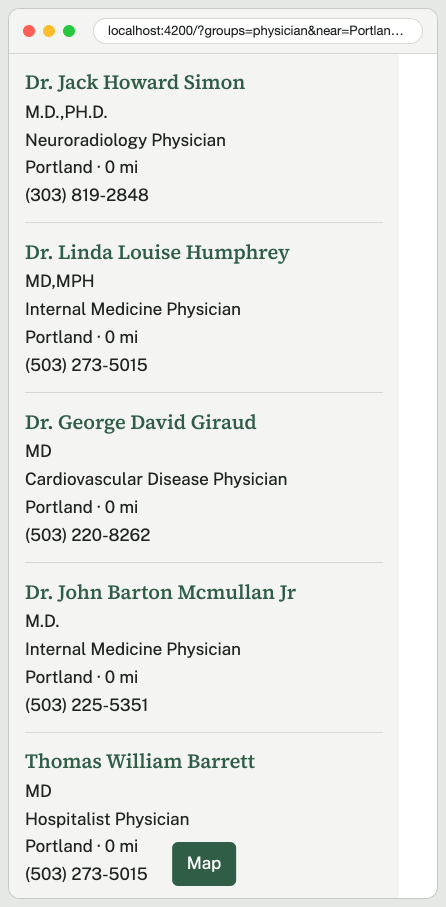
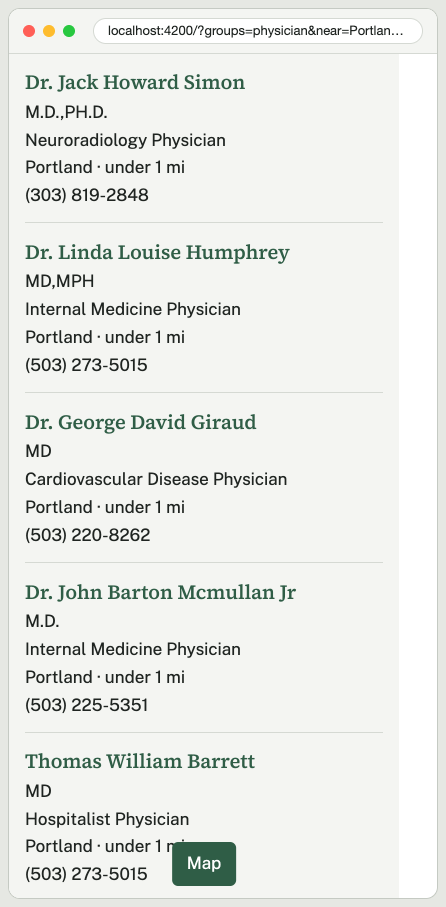
Show a shared ZIP center as under a mile.
A distance of 0 is the haversine of two identical ZIP centers, and "0 mi" read as the same building.

diff --git a/web/src/app/search-page.ts b/web/src/app/search-page.ts
@@ -6,7 +6,7 @@ import { ActivatedRoute } from '@angular/router';
 import { catchError, forkJoin, of, switchMap } from 'rxjs';
 import { GROUPS, PRESETS, groupLabel } from './catalog';
 import { Facets, FinderApi, LocationHit, ProviderSummary, UnderstoodItem } from './finder-api';
-import { placeCase, phoneText } from './format';
+import { distanceText, placeCase, phoneText } from './format';
 import { ResultMap } from './map-view';
 import { SearchQuery, isActive, readQuery, toParams } from './query';
 
@@ -44,6 +44,7 @@ export class SearchPage {
   readonly active = computed(() => isActive(this.filters()));
   readonly placeCase = placeCase;
   readonly phoneText = phoneText;
+  readonly distanceText = distanceText;
   readonly groupLabel = groupLabel;
 
   constructor() {

diff --git a/web/src/app/search-page.html b/web/src/app/search-page.html
@@ -140,7 +140,7 @@
                 <span>{{ item.credentialText }}</span>
               }
               <span>{{ item.primarySpecialty }}</span>
-              <span>{{ placeCase(item.city) }}@if (item.distanceMiles !== null) { · {{ item.distanceMiles }} mi }</span>
+              <span>{{ placeCase(item.city) }}@if (item.distanceMiles !== null) { · {{ distanceText(item.distanceMiles) }} }</span>
               @if (item.phone) {
                 <span>{{ phoneText(item.phone) }}</span>
               }

diff --git a/web/src/app/format.ts b/web/src/app/format.ts
@@ -30,6 +30,16 @@ export function phoneText(digits: string | null): string {
   return `(${digits.slice(0, 3)}) ${digits.slice(3, 6)}-${digits.slice(6)}`;
 }
 
+export function distanceText(miles: number | null): string {
+  if (miles === null) {
+    return '';
+  }
+  if (miles < 1) {
+    return 'under 1 mi';
+  }
+  return `${Math.round(miles)} mi`;
+}
+
 export function formatDate(value: string | null): string {
   if (!value || value.length < 10) {
     return '';

diff --git a/web/src/app/format.spec.ts b/web/src/app/format.spec.ts
@@ -1,0 +1,9 @@
+import { distanceText } from './format';
+
+describe('distanceText', () => {
+  it('treats a shared ZIP center as under a mile', () => {
+    expect(distanceText(0)).toBe('under 1 mi');
+    expect(distanceText(4.2)).toBe('4 mi');
+    expect(distanceText(null)).toBe('');
+  });
+});

diff --git a/docs/decisions.md b/docs/decisions.md
@@ -64,6 +64,16 @@ ASP.NET Core 10 generates the OpenAPI document with `Microsoft.AspNetCore.OpenAp
 
 `httpResource` in the installed `@angular/common` is still marked `@experimental` (21.0.0). The screens use `HttpClient` and signals, and the search filters live in the URL.
 
+## 2026-09-27: Review
+
+The review pass looked at the API, the screens at 390 and 1440, the README, and the setup script.
+
+A distance of 0 miles is real: the practice ZIP center is the same point as the city center, which is what the haversine returns. The list was showing "0 mi", which reads as the same building. It now says "under 1 mi" when the distance is below 1. Rounded miles stay as they were for longer distances.
+
+The phone results frame was wider than the page because the URL pill stretched the window. The pill now ellipsizes. The exception page in Development was already replaced with the shared handler in the security pass, after a null model radius threw and the stack reached the client.
+
+No other defect in that pass needed a code change. The assigned reviewers were Ivy and Nora. This session did the pass in the main thread and recorded it here.
+
 ## 2026-09-27: Filter length limits
 
 The security pass found that a city or ZIP and the page number were not bounded, while search text, page size, and radius already were. A place is now limited to 80 characters, a page to 200, and the comma-separated filter lists to a few hundred characters. The sentences returned for a bad request are written in this API.
